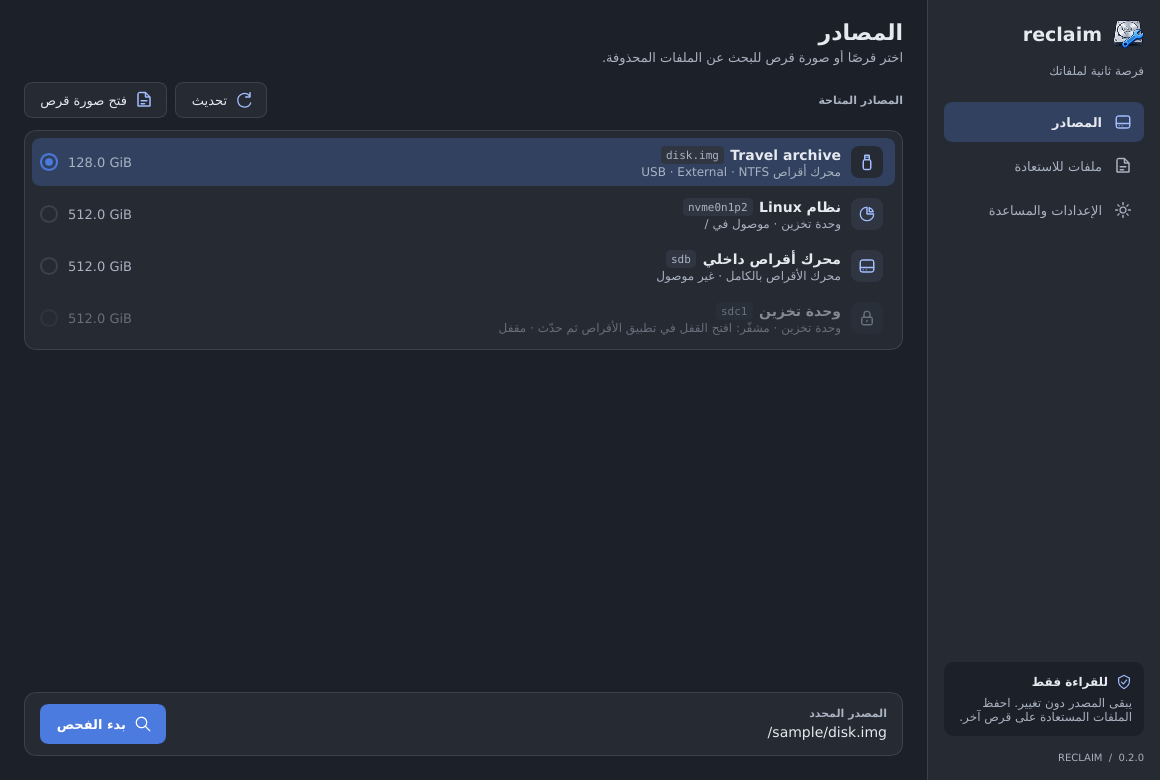
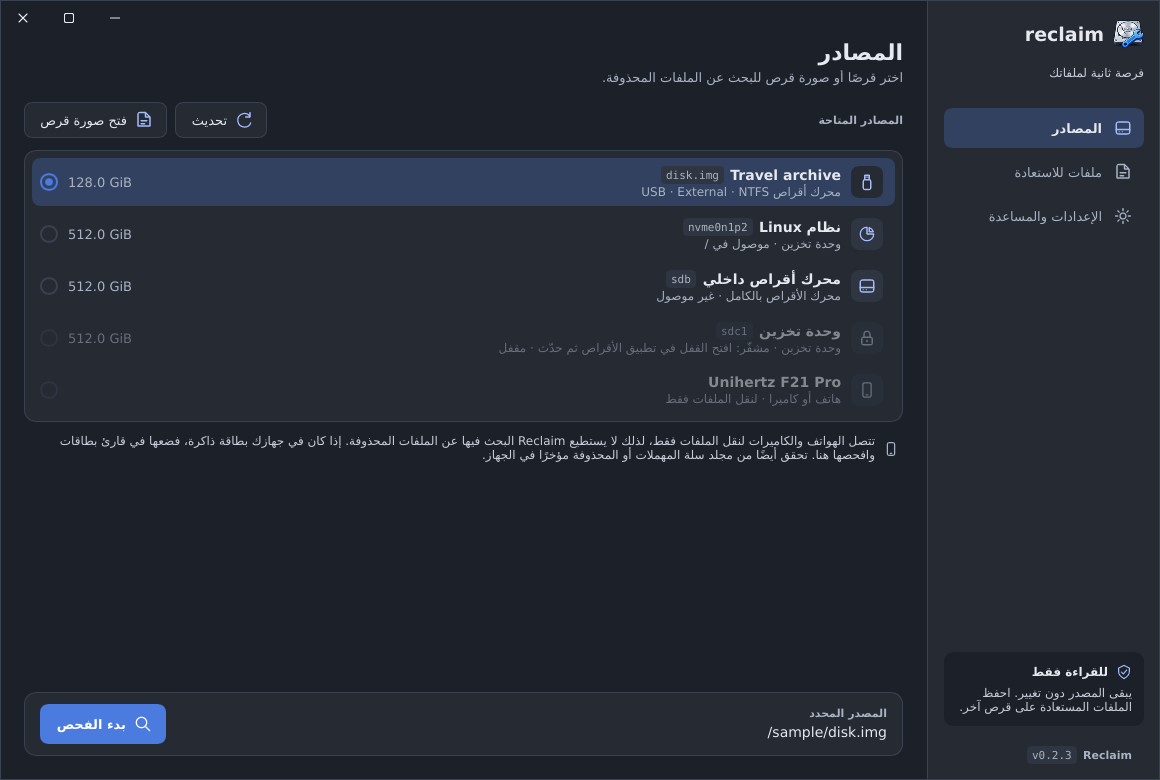
Refresh screenshots and bring README up to date
The README and website screenshots still showed the v0.2.0 interface. They
are now rendered from the current UI in every site language, light and dark.
The README lists MIDI and SWF, names ext2/3/4 and HFS+ among the scanned
volume types, and says rustup picks up the pinned 1.100.0 toolchain.

diff --git a/website/src/i18n/ar.ts b/website/src/i18n/ar.ts
@@ -111,7 +111,7 @@ const ar: Dict = {
       { name: 'المستندات والكتب الإلكترونية', list: 'PDF, Word, Excel, PowerPoint, OpenDocument, EPUB' },
       { name: 'الملفات المضغوطة', list: 'ZIP, 7z, RAR5, CAB, TAR, GZIP, XAR, JAR, APK' },
       { name: 'البرامج وملفات التثبيت', list: 'EXE, DLL, ELF, MSI, DEB, RPM, DEX, PKG' },
-      { name: 'الصوت والفيديو', list: 'WAV, AIFF, AU, AVI, Ogg Vorbis, Opus, Theora' },
+      { name: 'الصوت والفيديو', list: 'WAV, AIFF, AU, MIDI, AVI, Ogg Vorbis, Opus, Theora, Flash (SWF)' },
       { name: 'قواعد البيانات', list: 'SQLite' },
     ],
     more: 'قائمة الصيغ الكاملة',

diff --git a/website/src/i18n/ru.ts b/website/src/i18n/ru.ts
@@ -111,7 +111,7 @@ const ru: Dict = {
       { name: 'Документы и электронные книги', list: 'PDF, Word, Excel, PowerPoint, OpenDocument, EPUB' },
       { name: 'Архивы', list: 'ZIP, 7z, RAR5, CAB, TAR, GZIP, XAR, JAR, APK' },
       { name: 'Программы и установщики', list: 'EXE, DLL, ELF, MSI, DEB, RPM, DEX, PKG' },
-      { name: 'Аудио и видео', list: 'WAV, AIFF, AU, AVI, Ogg Vorbis, Opus, Theora' },
+      { name: 'Аудио и видео', list: 'WAV, AIFF, AU, MIDI, AVI, Ogg Vorbis, Opus, Theora, Flash (SWF)' },
       { name: 'Базы данных', list: 'SQLite' },
     ],
     more: 'Полный список форматов',

diff --git a/website/src/i18n/he.ts b/website/src/i18n/he.ts
@@ -116,7 +116,7 @@ const he: Dict = {
       { name: 'מסמכים וספרים דיגיטליים', list: 'PDF, Word, Excel, PowerPoint, OpenDocument, EPUB' },
       { name: 'קובצי ארכיון', list: 'ZIP, 7z, RAR5, CAB, TAR, GZIP, XAR, JAR, APK' },
       { name: 'תוכנות וקובצי התקנה', list: 'EXE, DLL, ELF, MSI, DEB, RPM, DEX, PKG' },
-      { name: 'שמע ווידאו', list: 'WAV, AIFF, AU, AVI, Ogg Vorbis, Opus, Theora' },
+      { name: 'שמע ווידאו', list: 'WAV, AIFF, AU, MIDI, AVI, Ogg Vorbis, Opus, Theora, Flash (SWF)' },
       { name: 'מסדי נתונים', list: 'SQLite' },
     ],
     more: 'לרשימת הפורמטים המלאה',

diff --git a/website/src/i18n/es.ts b/website/src/i18n/es.ts
@@ -111,7 +111,7 @@ const es: Dict = {
       { name: 'Documentos y libros electrónicos', list: 'PDF, Word, Excel, PowerPoint, OpenDocument, EPUB' },
       { name: 'Archivos comprimidos', list: 'ZIP, 7z, RAR5, CAB, TAR, GZIP, XAR, JAR, APK' },
       { name: 'Programas e instaladores', list: 'EXE, DLL, ELF, MSI, DEB, RPM, DEX, PKG' },
-      { name: 'Audio y vídeo', list: 'WAV, AIFF, AU, AVI, Ogg Vorbis, Opus, Theora' },
+      { name: 'Audio y vídeo', list: 'WAV, AIFF, AU, MIDI, AVI, Ogg Vorbis, Opus, Theora, Flash (SWF)' },
       { name: 'Bases de datos', list: 'SQLite' },
     ],
     more: 'Cobertura completa de formatos',

diff --git a/website/src/i18n/fr.ts b/website/src/i18n/fr.ts
@@ -111,7 +111,7 @@ const fr: Dict = {
       { name: 'Documents et livres numériques', list: 'PDF, Word, Excel, PowerPoint, OpenDocument, EPUB' },
       { name: 'Archives', list: 'ZIP, 7z, RAR5, CAB, TAR, GZIP, XAR, JAR, APK' },
       { name: 'Programmes et installateurs', list: 'EXE, DLL, ELF, MSI, DEB, RPM, DEX, PKG' },
-      { name: 'Audio et vidéo', list: 'WAV, AIFF, AU, AVI, Ogg Vorbis, Opus, Theora' },
+      { name: 'Audio et vidéo', list: 'WAV, AIFF, AU, MIDI, AVI, Ogg Vorbis, Opus, Theora, Flash (SWF)' },
       { name: 'Bases de données', list: 'SQLite' },
     ],
     more: 'Liste complète des formats',

diff --git a/website/src/i18n/de.ts b/website/src/i18n/de.ts
@@ -111,7 +111,7 @@ const de: Dict = {
       { name: 'Dokumente und E-Books', list: 'PDF, Word, Excel, PowerPoint, OpenDocument, EPUB' },
       { name: 'Archive', list: 'ZIP, 7z, RAR5, CAB, TAR, GZIP, XAR, JAR, APK' },
       { name: 'Programme und Installer', list: 'EXE, DLL, ELF, MSI, DEB, RPM, DEX, PKG' },
-      { name: 'Audio und Video', list: 'WAV, AIFF, AU, AVI, Ogg Vorbis, Opus, Theora' },
+      { name: 'Audio und Video', list: 'WAV, AIFF, AU, MIDI, AVI, Ogg Vorbis, Opus, Theora, Flash (SWF)' },
       { name: 'Datenbanken', list: 'SQLite' },
     ],
     more: 'Vollständige Formatliste',

diff --git a/website/src/i18n/en.ts b/website/src/i18n/en.ts
@@ -109,7 +109,7 @@ const en = {
       { name: 'Documents and ebooks', list: 'PDF, Word, Excel, PowerPoint, OpenDocument, EPUB' },
       { name: 'Archives', list: 'ZIP, 7z, RAR5, CAB, TAR, GZIP, XAR, JAR, APK' },
       { name: 'Programs and installers', list: 'EXE, DLL, ELF, MSI, DEB, RPM, DEX, PKG' },
-      { name: 'Audio and video', list: 'WAV, AIFF, AU, AVI, Ogg Vorbis, Opus, Theora' },
+      { name: 'Audio and video', list: 'WAV, AIFF, AU, MIDI, AVI, Ogg Vorbis, Opus, Theora, Flash (SWF)' },
       { name: 'Databases', list: 'SQLite' },
     ],
     more: 'Full format coverage',

diff --git a/README.md b/README.md
@@ -88,7 +88,7 @@ Pick the file for your computer from the **[latest release](https://github.com/s
 | Documents and ebooks | PDF, Word, Excel, PowerPoint, OpenDocument, EPUB |
 | Archives | ZIP, 7z, RAR5, CAB, TAR, GZIP, XAR, JAR, APK |
 | Programs and installers | EXE, DLL, ELF, MSI, DEB, RPM, DEX, PKG |
-| Audio and video | WAV, AIFF, AU, AVI, Ogg Vorbis, Opus, Theora |
+| Audio and video | WAV, AIFF, AU, MIDI, AVI, Ogg Vorbis, Opus, Theora, Flash (SWF) |
 | Databases | SQLite |
 
 Common video formats such as MP4 and MOV can't be found yet. Technical details are in the [format report](docs/FILE_FORMAT_RESEARCH.md).
@@ -137,7 +137,7 @@ To uninstall: use **Settings → Apps** on Windows, move Reclaim from Applicatio
 
 ## For developers
 
-Reclaim is written in Rust with the [Slint](https://slint.dev) interface toolkit. Install stable Rust and your platform's build tools (Linux also needs the [GUI development libraries](docs/DEVELOPMENT.md#build-and-run)), then:
+Reclaim is written in Rust with the [Slint](https://slint.dev) interface toolkit. Install Rust with [rustup](https://rustup.rs) (it picks up the pinned 1.100.0 toolchain from `rust-toolchain.toml`) and your platform's build tools (Linux also needs the [GUI development libraries](docs/DEVELOPMENT.md#build-and-run)), then:
 
 ```sh
 git clone https://github.com/sudo-py-dev/reclaim.git
@@ -150,7 +150,7 @@ The [developer guide](docs/DEVELOPMENT.md) covers building, drive permissions, a
 <details>
 <summary>How scanning works</summary>
 
-Reclaim reads the allocation map of an NTFS, FAT12/16/32 or exFAT volume and searches only free clusters, so files that still exist are skipped. Unsupported or damaged maps produce an error instead of a scan of occupied space. Each match is a possible recovery candidate; it does not prove that a file was deleted or is complete. Recovered files get numbered names when needed so existing files in the output folder are never replaced. The unused-space scan does not search allocated NTFS MFT records for small resident deleted files or their names.
+Reclaim reads the allocation map of an NTFS, FAT12/16/32, exFAT, ext2/3/4 or HFS+ volume and searches only free clusters, so files that still exist are skipped. Unsupported or damaged maps produce an error instead of a scan of occupied space. Each match is a possible recovery candidate; it does not prove that a file was deleted or is complete. Recovered files get numbered names when needed so existing files in the output folder are never replaced. The unused-space scan does not search allocated NTFS MFT records for small resident deleted files or their names.
 
 For repeatable results, scan a saved volume image; a mounted drive can change during scanning.
 

diff --git a/docs/DEVELOPMENT.md b/docs/DEVELOPMENT.md
@@ -76,7 +76,7 @@ See [file-format research and coverage](FILE_FORMAT_RESEARCH.md) for primary sou
 Reclaim is not a complete filesystem recovery suite. A signature match does not establish that a file was deleted or that all its contents are usable. Overwritten or TRIM-erased data cannot be reconstructed by the scanner.
 
 - Most candidates are limited to 64 MiB each, with a maximum of 100,000 results. Classic ZIP archives with known local entry sizes can exceed 64 MiB (up to the classic ZIP offset range) using bounded-memory directory checks; large ZIP-based packages are reported as ZIP. ZIP entry payloads are not decompressed or CRC-verified. Captured NTFS resident data has a separate 64 MiB memory budget.
-- Original folder reconstruction, restoring timestamps, fragmented-file reconstruction, and APFS/ext4 allocation maps are not implemented. NTFS runlists are read for the MFT/$Bitmap allocation map only, not general deleted-file reconstruction. Split NTFS attributes needing ATTRIBUTE_LIST extents and whole-disk MBR/GPT sources are rejected; select a formatted volume instead.
+- Original folder reconstruction, restoring timestamps, fragmented-file reconstruction, and APFS allocation maps are not implemented. NTFS runlists are read for the MFT/$Bitmap allocation map only, not general deleted-file reconstruction. Split NTFS attributes needing ATTRIBUTE_LIST extents and whole-disk MBR/GPT sources are rejected; select a formatted volume instead.
 - `scan_unused_reader` is the desktop entry point. `scan_reader` remains a full-source API for tests and explicit lower-level use. Deleted resident NTFS recovery inside allocated MFT clusters is excluded from the desktop unused-space mode.
 - ZIP64/multipart archives, ZIP archives over 64 MiB that require data descriptors, unknown-length AU streams, and multi-segment OpenDML AVI are unsupported.
 - Mounted or changing sources can produce inconsistent results. For repeatable work, scan a raw disk image.
